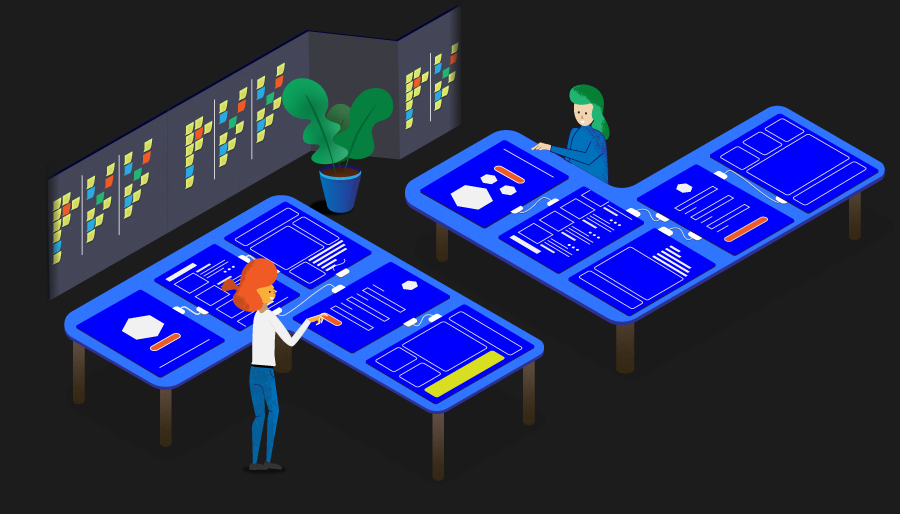
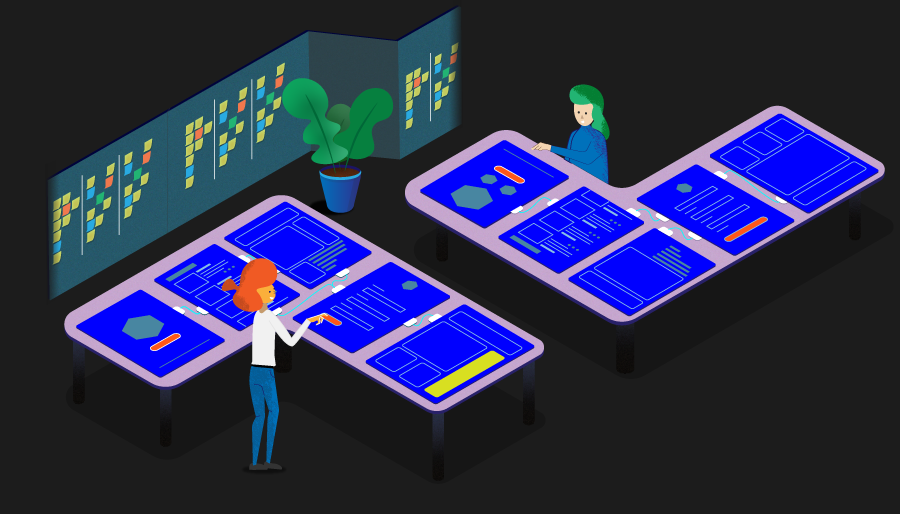
images changes and css edit in layout styles and helpers

Changed region(s): [[0.0622, 0.0623, 0.9956, 0.9339], [0.4356, 0.0311, 0.5289, 0.3113], [0.6222, 0.249, 0.6533, 0.2802]]

diff --git a/src/components/commons/stack/index.js b/src/components/commons/stack/index.js
@@ -1,12 +1,12 @@
 
 import React from 'react';
-import IsometricArt from '../../../assets/svg/stylesheet/isometric-art-tecnology.svg';
+import IsometricArt from '../../../assets/images/tecnologias-isometrica.jpg';
 
 // DQ: Review ways to import SVG
 const Stack = () => (
   <div className="container">
-    <div className="content h-100v">
-      <div className="g-30-70">
+    <div className="content height-100vh">
+      <div className="grid-col40-col60">
         <div className="content__right">
           <pre>
             PARA UN MUNDO CONECTADO
@@ -19,9 +19,12 @@ const Stack = () => (
             tecnologías.
           </h2>
         </div>
-        <div className="content__left">
+        <div className="content__left stack-animation__content">
+          <div className="stack-animation__box stack-animation__box__frontend" />
+          <div className="stack-animation__box stack-animation__box__develop" />
+          <div className="stack-animation__box stack-animation__box__backend" />
           <img
-            className="seccionMejoresTecnologias__img"
+            className="stack__img"
             src={IsometricArt}
             alt="Mejores tecnologías arte"
           />

diff --git a/src/assets/sass/components/stack.scss b/src/assets/sass/components/stack.scss
@@ -1,0 +1,30 @@
+.stack-animation__content{
+  position: relative;
+}
+
+.stack-animation__box{
+  --size: 10%;
+  position: absolute;
+  width: var(--size);
+  height: var(--size);
+  border: 1px solid red;
+}
+
+.stack-animation__box__frontend{
+  left: 44.5%;
+  top: 4.5%;
+}
+
+.stack-animation__box__develop{
+  left: 81.5%;
+  top: 35.2%;
+}
+
+.stack-animation__box__backend{
+  left: 26.3%;
+  top: 52.5%;
+}
+
+.stack__img{
+  align-self: flex-end;
+}

diff --git a/src/assets/sass/helpers.scss b/src/assets/sass/helpers.scss
@@ -1,12 +1,8 @@
 
 
 // el ancho del div al ocupa todo el ancho del viewport
-.h-100vh{
+.height-100vh{
     height: 100vh;
-}
-
-.seccionMejoresTecnologias__img{
-    align-self: flex-end;
 }
 
 .s-hidden{

diff --git a/src/assets/sass/styles.scss b/src/assets/sass/styles.scss
@@ -6,6 +6,9 @@
 @import url("https://use.typekit.net/gmy5mcq.css");
 // @import url("https://use.typekit.net/gmy5mcq.css");
 
+// Stack Module css
+@import "components/stack";
+
 // Global
 
 .bg-white{

diff --git a/src/assets/sass/layout.scss b/src/assets/sass/layout.scss
@@ -40,7 +40,7 @@
     }
 }
 
-.g-30-70{
+.grid-col40-col60{
     display: grid;
     grid-template-columns: 40% 60%;
     grid-template-rows: 100%;
